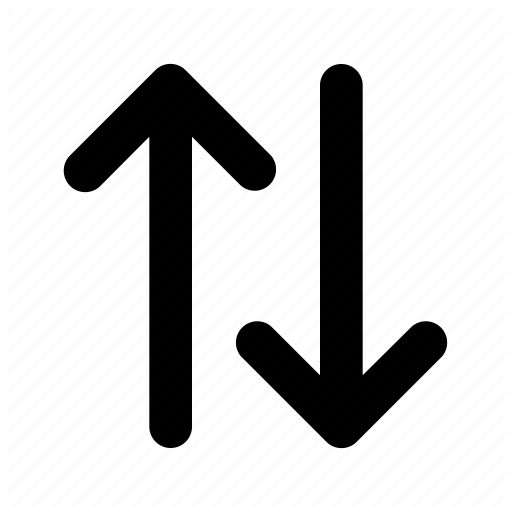
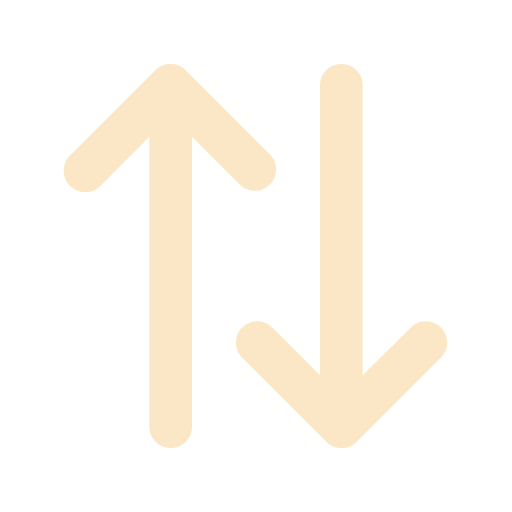
Aprimorar visuais e adicionar alertas
-Adicionado uma paleta de cores para tornar o visual mais agradável;
-Criado um sistema de alerta para quando um poder é ativado;

Changed region(s): [[0.4375, 0.125, 0.875, 0.875], [0.125, 0.125, 0.5625, 0.875]]

diff --git a/client/scripts/Jogo_da_velha+_main.js b/client/scripts/Jogo_da_velha+_main.js
@@ -17,6 +17,7 @@ var poderesPosicionados = [];
 
 socket.on("UpdateRoomList", (data) => {
     listCtx.clearRect(0,0,300,600);
+    ctx.fillStyle = "#FFAEBC";
     for (var i = 0; i < data.length; i++) {
         if (data[i].name != undefined) {
             if (data[i].name.length > 11) {
@@ -38,6 +39,7 @@ socket.on("UpdateRoomList", (data) => {
         listCtx.lineTo(300, 20+20*i);
         listCtx.stroke();
     }
+    ctx.fillStyle = "#000000";
 })
 
 socket.on("Update", (data) => {
@@ -45,6 +47,17 @@ socket.on("Update", (data) => {
     DesenhaTabuleiro(data.tabuleiro);
     if (data.tabuleiro.casasVitoria != undefined) {
         DesenhaLinhaVitoria(data.tabuleiro.casasVitoria);
+    }
+    if (data.poderAtivado.length > 0) {
+        for (i = 0; i < data.poderAtivado.length; i++) {
+            alert("Executado: " + data.poderAtivado[i][0]);
+            for (var j = 0; j < casasPoder.length; j++) {
+                if (casasPoder[j].x == data.poderAtivado[i][1].x && casasPoder[j].y == data.poderAtivado[i][1].y) {
+                    poderesPosicionados.splice(j,1);
+                    casasPoder.splice(j,1);
+                }
+            }
+        }
     }
     DesenhaUI(data.UI);
 })
@@ -71,6 +84,9 @@ cnv.onmousedown = (event) => {
 }
 
 DesenhaTabuleiro = (tabuleiro) => {
+    ctx.fillStyle = "#A0E7E5";
+    ctx.fillRect(0, 0, cnv.width, cnv.height);
+    ctx.strokeStyle = "#B4F8C8";
     ctx.lineWidth = 5;
     for (var c = 1; c < tabuleiro.colunas + 1; c++) {
         ctx.beginPath();
@@ -84,7 +100,7 @@ DesenhaTabuleiro = (tabuleiro) => {
         ctx.lineTo(tabuleiro.tamanho[1],l*tabuleiro.casas[0][0].height);
         ctx.stroke();
     }
-    for (var i = 0; i < casasPoder.length; i++) {
+    for (var i = 0; i < poderesPosicionados.length; i++) {
         var img = new Image();
         img.src = poderesPosicionados[i].img;
         ctx.drawImage(img, casasPoder[i].x + Math.floor(casasPoder[i].width/4), casasPoder[i].y + Math.floor(casasPoder[i].height/4), Math.floor(casasPoder[i].width/2), Math.floor(casasPoder[i].height/2));
@@ -93,23 +109,29 @@ DesenhaTabuleiro = (tabuleiro) => {
         for (var c = 0; c < tabuleiro.colunas; c++) {
             if (tabuleiro.casas[l][c].valor != undefined) {
                 ctx.clearRect(tabuleiro.casas[l][c].x + Math.floor(tabuleiro.casas[l][c].width/4), tabuleiro.casas[l][c].y + Math.floor(tabuleiro.casas[l][c].height/4), Math.floor(tabuleiro.casas[l][c].width/2), Math.floor(tabuleiro.casas[l][c].height/2));
+                ctx.fillRect(tabuleiro.casas[l][c].x + Math.floor(tabuleiro.casas[l][c].width/4), tabuleiro.casas[l][c].y + Math.floor(tabuleiro.casas[l][c].height/4), Math.floor(tabuleiro.casas[l][c].width/2), Math.floor(tabuleiro.casas[l][c].height/2));
                 var img = new Image();
                 img.src = "../client/img/Jogadores/" + tabuleiro.casas[l][c].valor + ".png";
                 ctx.drawImage(img, tabuleiro.casas[l][c].x + Math.floor(tabuleiro.casas[l][c].width/4), tabuleiro.casas[l][c].y + Math.floor(tabuleiro.casas[l][c].height/4), Math.floor(tabuleiro.casas[l][c].width/2), Math.floor(tabuleiro.casas[l][c].height/2));
             }
         }
     }
+    ctx.strokeStyle = "#000000";
+    ctx.fillStyle = "#000000";
 }
 
 DesenhaLinhaVitoria = (casasVitoria) => {
+    ctx.strokeStyle = "#B4F8C8";
     ctx.beginPath();
     ctx.moveTo(casasVitoria.primeiraCasa[0],casasVitoria.primeiraCasa[1]);
     ctx.lineTo(casasVitoria.ultimaCasa[0],casasVitoria.ultimaCasa[1]);
     ctx.stroke();
+    ctx.strokeStyle = "#000000";
 }
 
 DesenhaUI = (data) => {
     ctx.font = "22px Arial";
+    ctx.fillStyle = "#B4F8C8";
     if (data.etapa == "Posicionar Poderes") {
         ctx.fillText(data.etapa, 605, 25);
     }
@@ -118,10 +140,11 @@ DesenhaUI = (data) => {
     }
     DesenhaTurno(data.jogadorAtual);
     DesenhaPoderes(data.jogadorAtual,data.etapa,data.poderesAtivados);
+    ctx.fillStyle = "#000000";
 }
 
 DesenhaTurno = (jogadorAtual) => {
-    DesenhaEmptyRect(652,38,100,100)
+    DesenhaEmptyRect(652,38,100,100,"#FFAEBC")
     imgJogador = new Image();
     imgJogador.src = "../client/img/Jogadores/" + jogadorAtual.valor + ".png";
     ctx.drawImage(imgJogador, 665, 50, 75, 75);
@@ -129,7 +152,12 @@ DesenhaTurno = (jogadorAtual) => {
 
 DesenhaPoderes = (jogadorAtual, etapa, poderesAtivados) => {
     for (var i = 0; i < 3; i++) {
-        DesenhaEmptyRect(652,140 + 110*(i+1)-12,100,100);
+        if (etapa == 'Posicionar Poderes' && i == 0) {
+            DesenhaEmptyRect(652,140 + 110*(i+1)-12,100,100,"#FFAEBC");
+        }
+        else {
+            DesenhaEmptyRect(652,140 + 110*(i+1)-12,100,100,"#FBE7C6");
+        }
     }
     
     if (etapa == 'Posicionar Poderes') {
@@ -148,9 +176,13 @@ DesenhaPoderes = (jogadorAtual, etapa, poderesAtivados) => {
     }
 }
 
-DesenhaEmptyRect = (x,y,width,height) => {
+DesenhaEmptyRect = (x,y,width,height,color) => {
+    ctx.fillStyle = color;
     ctx.fillRect(x,y,width,height);
     ctx.clearRect(x+5,y+5,width-10,height-10);
+    ctx.fillStyle = "#B4F8C8";
+    ctx.fillRect(x+5,y+5,width-10,height-10);
+    ctx.fillStyle = "black";
 }
 
 EntrarSala = (nomeJogador) => {

diff --git a/client/index.html b/client/index.html
@@ -19,40 +19,52 @@
             <div style="text-align:center">
                 <canvas id="cnv" width="800" height="600"></canvas>
             </div>
+            <div id="TogglePreparar">
+                <button id="BotaoPreparar" type="button" onclick="Preparar()">Preparar</button>
+            </div>
             <form style="text-align:center">
                 Digite o número de jogadores: <input type="number" id ="maximoJogadores" min="1" max="4"></input>
                 <button type="button" onclick="IniciarJogo(maximoJogadores.value)">Iniciar</button>
             </form>
-            <div id="TogglePreparar">
-                <button id="BotaoPreparar" type="button" onclick="Preparar()">Preparar</button>
-            </div>
+            <h1 style="text-align:center;margin-bottom:0;">Armadilhas</h1>
             <div id="Instrucoes">
-                <h1 style="text-align:center">Poderes</h1>
-                <h2>Repetição</h2>
-                <img src="/client/img/Poderes/repeticao.png" alt="Poder de Repetição" width="100" height="100" style="float:left">
-                <p class="DescricaoPoder">O jogador que ativá-lo tem direito a uma jogada adicional nessa rodada.</p>
-                <br><br><br>
-                <h2>Troca</h2>
-                <img src="/client/img/Poderes/troca.png" alt="Poder de Troca" width="100" height="100" style="float:left">
-                <p class="DescricaoPoder">Inverte as peças de todos jogadores no tabuleiro. Ex: X vira O e O vira X</p>
-                <br><br><br>
-                <h2>Remoção</h2>
-                <img src="/client/img/Poderes/remocao.png" alt="Poder de Remoção" width="100" height="100" style="float:left">
-                <p class="DescricaoPoder">Remove uma peça aleatória de um oponente.</p>
-                <br><br><br>
-                <h2>Pular Vez</h2>
-                <img src="/client/img/Poderes/pular_vez.png" alt="Poder de Pular Vez" width="100" height="100" style="float:left">
-                <p class="DescricaoPoder">Pula a vez do próximo jogador.</p>
-                <br><br><br>
-                <h2>Inverter Ordem</h2>
-                <img src="/client/img/Poderes/inverter_ordem.png" alt="Poder de Inverter Ordem" width="100" height="100" style="float:left">
-                <p class="DescricaoPoder">Inverte a ordem com que os jogadores realizam suas rodadas. "Os últimos serão os primeiros"</p>
-                <br>
-                <h2>Voltar Turno</h2>
-                <img src="/client/img/Poderes/voltar_turno.png" alt="Poder de Voltar Turno" width="100" height="100" style="float:left">
-                <p class="DescricaoPoder">Passa a vez para o oponente anterior ao jogador que ativou este poder.</p>
+                <div class="DescricaoPoder">
+                    <h2>Repetição</h2>
+                    <img src="/client/img/Poderes/repeticao.png" alt="Poder de Repetição" width="100" height="100">
+                    <br>
+                    <p>O jogador que ativá-lo tem direito a uma jogada adicional nessa rodada.</p>
+                </div>
+                <div class="DescricaoPoder">
+                    <h2>Troca</h2>
+                    <img src="/client/img/Poderes/troca.png" alt="Poder de Troca" width="100" height="100">
+                    <br>
+                    <p>Inverte as peças de todos jogadores no tabuleiro. Ex: X vira O e O vira X</p>
+                </div>
+                <div class="DescricaoPoder">
+                    <h2>Remoção</h2>
+                    <img src="/client/img/Poderes/remocao.png" alt="Poder de Remoção" width="100" height="100">
+                    <br>
+                    <p>Remove uma peça aleatória de um oponente.</p>
+                </div>
+                <div class="DescricaoPoder">
+                    <h2>Pular Vez</h2>
+                    <img src="/client/img/Poderes/pular_vez.png" alt="Poder de Pular Vez" width="100" height="100">
+                    <br>
+                    <p>Pula a vez do próximo jogador.</p>
+                </div>
+                <div class="DescricaoPoder">
+                    <h2>Inverter Ordem</h2>
+                    <img src="/client/img/Poderes/inverter_ordem.png" alt="Poder de Inverter Ordem" width="100" height="100">
+                    <br>
+                    <p>Inverte a ordem com que os jogadores realizam suas rodadas. "Os últimos serão os primeiros"</p>
+                </div>
+                <div class="DescricaoPoder">
+                    <h2>Voltar Turno</h2>
+                    <img src="/client/img/Poderes/voltar_turno.png" alt="Poder de Voltar Turno" width="100" height="100">
+                    <br>
+                    <p>Passa a vez para o oponente anterior ao jogador que ativou este poder.</p>
+                </div>
             </div>
-            <br><br><br>
             <div id="Feedback">
                 <a href="https://docs.google.com/forms/d/e/1FAIpQLScYKyxee7xUNUXC8xCD9ftVEYayF-7GIpHVoy_o7e8MdAbb3g/viewform?usp=sf_link">Deixe seu feedback aqui</a>
             </div>

diff --git a/server/poderes.js b/server/poderes.js
@@ -6,11 +6,11 @@ function Poder() {
 
     this.Executa = (obj,casa) => {
         manager = require("../app.js");
-        casa.poderes.splice(casa.poderes.indexOf(this),1)
         if (manager.poderesAtivados.length == 3) {
+
             manager.poderesAtivados.shift();
         }
-        manager.poderesAtivados.push(obj);
+        manager.poderesAtivados.unshift(obj);
     }
 }
 
@@ -20,8 +20,9 @@ function Repeticao() {
     this.img = "../client/img/Poderes/repeticao.png";
 
     super_executa = this.Executa;
-    this.Executa = (casa) => {
+    this.Executa = (casa,jogador) => {
         super_executa(this,casa);
+        manager.poderAtivado.push([this.constructor.name,casa]);
         manager.cancelarPassarTurno++;
     }
 }
@@ -32,8 +33,9 @@ function Troca() {
     this.img = "../client/img/Poderes/troca.png";
 
     super_executa = this.Executa;
-    this.Executa = (casa) => {
+    this.Executa = (casa,jogador) => {
         super_executa(this,casa);
+        manager.poderAtivado.push([this.constructor.name,casa]);
         jogadores = [];
         jogadoresMudar = [];
         jogadoresMudarPara = [];
@@ -84,6 +86,7 @@ function Remocao() {
     super_executa = this.Executa;
     this.Executa = (casa,jogador) => {
         super_executa(this,casa);
+        manager.poderAtivado.push([this.constructor.name,casa]);
 
         var posicoesCasasComValor = []
 
@@ -110,8 +113,9 @@ function Pular_Vez() {
     this.img = "../client/img/Poderes/pular_vez.png";
 
     super_executa = this.Executa;
-    this.Executa = (casa) => {
+    this.Executa = (casa,jogador) => {
         super_executa(this,casa);
+        manager.poderAtivado.push([this.constructor.name,casa]);
         manager.turno++;
         if (manager.turno > manager.maximoJogadores-1) {
             manager.turno = 0;
@@ -127,6 +131,7 @@ function Inverter_Ordem() {
     super_executa = this.Executa;
     this.Executa = (casa,jogador) => {
         super_executa(this,casa);
+        manager.poderAtivado.push([this.constructor.name,casa]);
         if (manager.jogadoresInvertidos) {
             var indexInicial = 0;
             var somaIndex = 1;
@@ -151,8 +156,9 @@ function Voltar_Turno() {
     this.img = "../client/img/Poderes/voltar_turno.png";
 
     super_executa = this.Executa;
-    this.Executa = (casa) => {
+    this.Executa = (casa,jogador) => {
         super_executa(this,casa);
+        manager.poderAtivado.push([this.constructor.name,casa]);
         manager.cancelarPassarTurno++;
         manager.turno--;
         if (manager.turno < 0) {

diff --git a/app.js b/app.js
@@ -114,7 +114,6 @@ function AtualizaJogoDaVelha(casa,jogador) {
     for (i in packGlobal.Jogador.list) {
         packGlobal.Jogador.list[i].ReduzirCasa(casa);
     }
-
     casa.valor = valor;
     casa.ExecutaPoderes(jogador);
     if (!packGlobal.cancelarTesteVitoria) {
@@ -334,11 +333,15 @@ setInterval(() => {
                 jogadorAtual:jogadorAtual,
                 etapa:packGlobal.etapa,
                 poderesAtivados:packGlobal.poderesAtivados
-            }
+            },
+            poderAtivado:packGlobal.poderAtivado
         };
         for (var i in SOCKET_LIST) {
             socket = SOCKET_LIST[i];
             socket.emit('Update', pack);
+        }
+        if (packGlobal.poderAtivado.length > 0) {
+            packGlobal.poderAtivado = [];
         }
     }
 }, 1000/25);

diff --git a/client/style.css b/client/style.css
@@ -1,3 +1,7 @@
+body {
+    font-family: sans-serif;
+}
+
 #FormDiv {
     text-align:center;
     display:block;
@@ -16,10 +20,15 @@
     text-align:center;
 }
 
+#Instrucoes {
+    display: grid;
+    grid-template-columns: auto auto auto;
+    padding: 10px;
+}
+
 .DescricaoPoder {
-    margin-left:6rem;
-    width:300px;
-    text-align:justify;
+    padding: 20px;
+    text-align: center;
 }
 
 canvas {

diff --git a/server/globais.js b/server/globais.js
@@ -13,6 +13,7 @@ PackInicial = (socketList,maximoJogadores) => {
         poderesAtivados:[],
         cancelarTesteVitoria:false,
         jogadoresInvertidos:false,
+        poderAtivado: [],
         cancelarPassarTurno:0
     }
     pack.Jogador.CriarLista(socketList,maximoJogadores,poderes);
